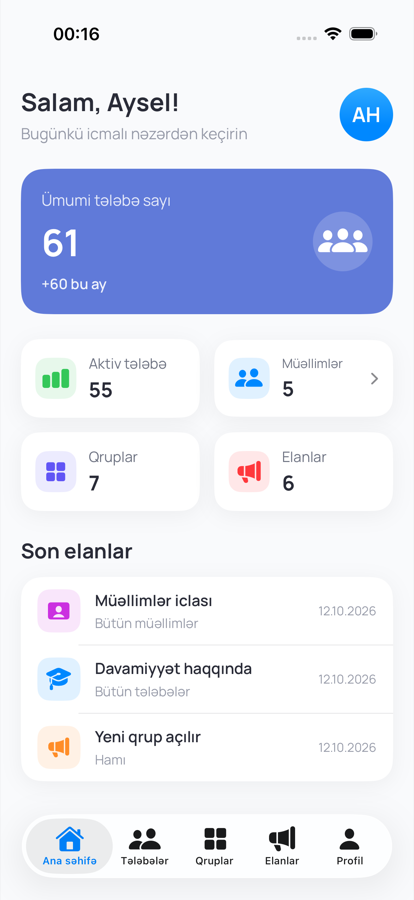
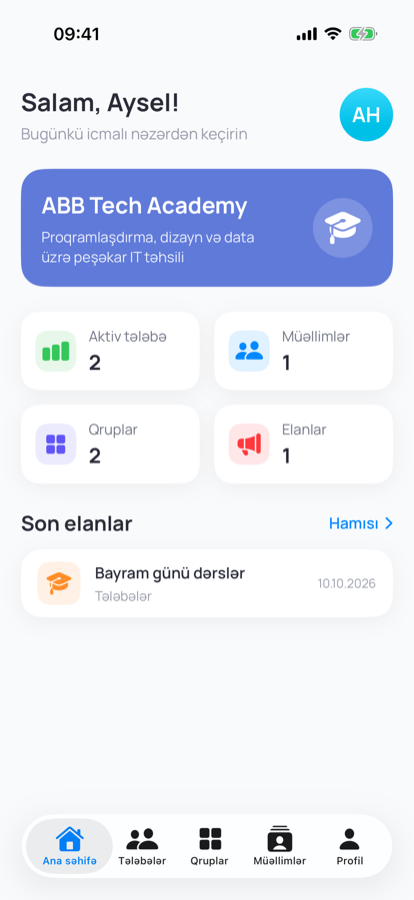
Update README and screenshots for the current employee screens
Add the project requirements to docs/REQUIREMENTS.md.

diff --git a/README.md b/README.md
@@ -12,10 +12,10 @@ The app works with a Laravel REST API (`https://campus.jeywastudio.com/api`).
 
 ### Employee
 
-| Dashboard | Students | Group | Excel import |
-| --- | --- | --- | --- |
-| <img src="docs/screenshots/6-employee-home-light.png" width="180"> | <img src="docs/screenshots/7-employee-students-light.png" width="180"> | <img src="docs/screenshots/8-employee-group-light.png" width="180"> | <img src="docs/screenshots/9-employee-import-light.png" width="180"> |
-| <img src="docs/screenshots/6-employee-home-dark.png" width="180"> | <img src="docs/screenshots/7-employee-students-dark.png" width="180"> | <img src="docs/screenshots/8-employee-group-dark.png" width="180"> | <img src="docs/screenshots/9-employee-import-dark.png" width="180"> |
+| Home | Students | Group | Excel import | Teachers | Announcements |
+| --- | --- | --- | --- | --- | --- |
+| <img src="docs/screenshots/6-employee-home-light.png" width="140"> | <img src="docs/screenshots/7-employee-students-light.png" width="140"> | <img src="docs/screenshots/8-employee-group-light.png" width="140"> | <img src="docs/screenshots/9-employee-import-light.png" width="140"> | <img src="docs/screenshots/16-employee-teachers-light.png" width="140"> | <img src="docs/screenshots/17-employee-announcements-light.png" width="140"> |
+| <img src="docs/screenshots/6-employee-home-dark.png" width="140"> | <img src="docs/screenshots/7-employee-students-dark.png" width="140"> | <img src="docs/screenshots/8-employee-group-dark.png" width="140"> | <img src="docs/screenshots/9-employee-import-dark.png" width="140"> | <img src="docs/screenshots/16-employee-teachers-dark.png" width="140"> | <img src="docs/screenshots/17-employee-announcements-dark.png" width="140"> |
 
 ### Student
 
@@ -42,12 +42,13 @@ The app works with a Laravel REST API (`https://campus.jeywastudio.com/api`).
 - **Schedule (student).** Upcoming or past lessons grouped by day, with time and room.
 - **Notifications (student).** Announcements for all students and for the student's own group.
 - **Profile.** Shows the user's details and signs out (with confirmation) through `/auth/logout`.
-- **Employee dashboard.** Shows the number of students, teachers, groups and announcements, plus the latest announcements.
-- **Students (employee).** Search by name, email or group, filter by All / Active / Inactive, open details, and activate or deactivate an account.
-- **Groups (employee).** Search groups, see study progress, create a group in a sheet (course, teacher, dates), and open a group to see its students.
-- **Excel import.** Pick an `.xlsx`, `.xls` or `.csv` file with `first_name, last_name, email` columns. It is uploaded as multipart form data, and the screen shows how many rows were added, how many were skipped, and the error for each skipped row.
-- **Teachers.** See the list with specialty and group count, and open a teacher to see their groups.
-- **Announcements.** See the list, and publish a new one to everyone, all students, all teachers or a single group (500 character limit).
+- **Employee home.** An academy card, the number of active students, teachers, groups and announcements, and the latest announcements with a link to all of them.
+- **Students (employee).** Search by name, email or group, filter by status (All / Active / Inactive) and by course, see each student's group and course, open details, and activate or deactivate an account.
+- **Groups (employee).** Search and filter by course, see study progress, open a group to see its students, and create or edit a group in a sheet: course, teacher, up to 2 mentors, start date and an end date picked in a calendar. Names are limited to 20 characters, and closing a form with unsaved changes asks for confirmation.
+- **Excel import.** Pick an `.xlsx`, `.xls` or `.csv` file (up to 5 MB) with `first_name, last_name, email` columns. It is uploaded as multipart form data. The import is all or nothing: the screen shows how many rows were added, or the error for each invalid row. Finished groups cannot be imported into.
+- **Teachers (employee).** Filter by position (teacher / mentor) and specialty, see the group count, open a teacher to see the groups they teach or mentor, and deactivate or reactivate their account.
+- **Announcements (employee).** Publish, edit and delete announcements with a title, a message (up to 500 characters), a priority (low / medium / high, each with its own colour), an audience (everyone, students, or teachers and mentors) and up to 3 links.
+- **Paging.** The students, groups, teachers and announcements lists load 20 items at a time as you scroll. Search waits for typing to pause, and responses that arrive out of order are ignored.
 - **Dark mode.** Every color comes from the asset catalog and has a dark variant.
 - **Loading, error and empty states.** Every screen uses one shared `AsyncContentView` driven by a `ViewState` enum, with retry on error and pull-to-refresh.
 
@@ -82,9 +83,9 @@ View  ──▶  ViewModel  ──▶  Service (protocol)  ──▶  NetworkSer
 ```
 abb_campus/
 ├── App/            # App entry point, AppDependencies, UI-testing stubs
-├── Core/           # Networking, Keychain, UserDefaults, auth state, helpers, extensions
+├── Core/           # Networking, Keychain, UserDefaults, auth state, paging and search helpers, extensions
 ├── Models/         # Codable API models
-├── Services/       # AuthService, PasswordResetService
+├── Services/       # Service protocols and their API implementations (auth, student, employee)
 ├── ViewModels/     # One view model per screen
 ├── Features/       # Screens grouped by feature, with their own components
 ├── Shared/         # Reusable UI components (PrimaryButton, IconCircleView, ProgressBar…)
@@ -96,8 +97,9 @@ abb_campusUITests/  # UI tests
 
 ## Tests
 
-- **Unit tests** (`abb_campusTests`, 72 tests) cover the auth view models (`LoginViewModel`, `ForgotPasswordViewModel`, `RoleSelectionViewModel`), `ProfileViewModel`, all student view models (home with next-lesson selection, grades, module grades, schedule grouping, attendance, notifications), all employee view models (dashboard, students list and detail, group detail, create group, Excel import, new announcement), `AuthenticationState`, `ValidationHelper` and request building for `EmployeeEndpoint`. They check both success and error cases. Every service is replaced by a mock through its protocol, so the tests never call the real API.
-- **UI tests** (`abb_campusUITests`) cover the login flow (role selection, the validation error, the wrong password error, a successful login → home → logout, and opening the forgot password sheet) the student flow (home → attendance, grades → module details) and the employee flow (dashboard → students → Inactive filter → student details, and group → import screen). The app starts with `-ui-testing`, so the tests use stub services.
+- **Unit tests** (`abb_campusTests`, 155 tests) cover the auth view models (`LoginViewModel`, `ForgotPasswordViewModel`, `RoleSelectionViewModel`), `ProfileViewModel`, all student view models (home with next-lesson selection, grades, module grades, schedule grouping, attendance, notifications), all employee view models (dashboard, students, teachers and groups lists and details, create and edit group, Excel import, create, edit and delete announcements), `AuthenticationState`, `ValidationHelper`, paging and request building for `EmployeeEndpoint`. They check both success and error cases. Every service is replaced by a mock through its protocol, so the tests never call the real API.
+- **Concurrency and network tests** check that a slow, older response never overwrites a newer one, that a cancelled refresh keeps the data on screen, and that server errors, timeouts, offline mode and invalid JSON show a clear message. The network tests use a stubbed `URLProtocol` instead of the real server.
+- **UI tests** (`abb_campusUITests`) cover the login flow (role selection, the validation error, the wrong password error, a successful login → home → logout, and opening the forgot password sheet) the student flow (home → attendance, grades → module details) and the employee flow (dashboard → students → Inactive filter → student details, and group → import screen), plus two navigation stress tests (20 push/back cycles, rapid tab switching and returning from the background). The app starts with `-ui-testing`, so the tests use stub services.
 
 Run all tests from the terminal:
 
@@ -121,16 +123,16 @@ Steps:
 2. Open `abb_campus.xcodeproj`.
 3. Select the `abb_campus` scheme and a simulator, then press **⌘R**.
 
-Demo accounts (password `Password123!` for all of them):
+Demo accounts:
 
-| Role | Email |
-| --- | --- |
-| Student | `student@abb.local` |
-| Employee | `employee@abb.local` |
-| Teacher | `teacher@abb.local` |
+| Role | Email | Password |
+| --- | --- | --- |
+| Student | `student@abb.local` | `Password123!` |
+| Employee | `employee@abb.local` | `abc12345` |
+| Teacher | `teacher@abb.local` | `Password123!` |
 
 To try the Excel import, drag the files from [`docs/demo`](docs/demo) onto the simulator and save them in Files. Then open a group, choose **Excel-dən tələbə idxal et** and pick a file. The import is all or nothing: [`telebeler.xlsx`](docs/demo/telebeler.xlsx) is valid and adds 6 students (including `student@abb.local`), while [`telebeler_sehvli.xlsx`](docs/demo/telebeler_sehvli.xlsx) has 3 invalid rows, so nothing is imported and the errors are listed.
 
 ## Backend
 
-The app talks to a Laravel 12 REST API. For the employee screens these endpoints were added: `GET /employee/dashboard`, `GET /students`, `GET /students/{id}`, `GET /teachers`, `GET /teachers/{id}` and `PATCH /users/{id}/status`, plus search on `GET /groups`. While building the student screens, three existing backend bugs were fixed: attendance was always 0%, ungraded modules lowered the average, and the group students list returned a 500 error. Everything is covered by PHPUnit feature tests (28 tests).
+The app talks to a Laravel 12 REST API. For the employee screens these endpoints were added: `GET /employee/dashboard`, `GET /students`, `GET /students/{id}`, `GET /teachers`, `GET /teachers/{id}`, `PATCH /users/{id}/status`, creating and editing groups, Excel import, and creating, editing and deleting announcements. Lists support search, filters and paging. While building the student screens, three existing backend bugs were fixed: attendance was always 0%, ungraded modules lowered the average, and the group students list returned a 500 error. Everything is covered by PHPUnit feature tests (84 tests).

diff --git a/docs/REQUIREMENTS.md b/docs/REQUIREMENTS.md
@@ -1,0 +1,75 @@
+# Final Layihə — Tələblər və Qiymətləndirmə
+
+## ⚠ Məcburi şərtlər
+
+Bu şərtlərdən biri ödənməsə, layihə qiymətləndirməyə qəbul olunmur:
+
+- Layihə SwiftUI ilə yazılır (UIKit yalnız SwiftUI-da olmayan komponent lazım olanda `UIViewRepresentable` kimi istifadə oluna bilər).
+- Arxitektura MVVM-dir: View-da business logic, networking və ya data emalı olmur.
+- Ən azı bir feature-un ViewModelləri üçün unit testlər yazılsın və həmin feature-un View-su üçün UI test yazılsın.
+- Kod GitHub-dadır və README var (öz reponuzda, ABB Organization daxilində yox). Bütün app 1 commitlə deyil, mənalı commitlərlə yazılıb.
+- GitHub Actions workflow yaradın — hər push və pull request-də testlər avtomatik run olunsun. Actions tab-ında son run yaşıl ✅ olmalıdır.
+
+## 👨💻 1. Təlimçi qiymətləndirməsi — 60 bal
+
+Bu hissə Demo Day-dən əvvəl aparılır.
+
+### 1⃣ Arxitektura və kod keyfiyyəti — 20
+
+- MVVM düzgün tətbiq olunub: View → ViewModel → Service/Repository
+- Naming: aydın və ardıcıl adlar
+- File structure: məntiqi qovluqlar
+- Komponentlərə bölünmə: böyük View-lar kiçik, təkrar istifadə olunan View-lara bölünüb
+- Code reusability: eyni kod copy-paste olunmayıb, ortaq hissələr extension, komponent və ya helper-ə çıxarılıb
+- OOP / SOLID: protocol-lar, dependency injection, hər class-ın bir məsuliyyəti var
+
+### 2⃣ Funksionallıq — 12
+
+- App işləyir, crash yoxdur
+- Feature-lar tamamlanıb
+- Loading, error və empty state-lər idarə olunub
+
+### 3⃣ iOS konseptlərinin istifadəsi — 10
+
+- Networking (async/await)
+- State management (`@State`, `@Binding`, `@Observable` / `ObservableObject`)
+- Navigation (`NavigationStack`, sheet, `TabView`)
+- Persistence (SwiftData, UserDefaults və s.)
+
+### 4⃣ Unit test — 8
+
+- Ən azı 1 ViewModel test olunub (minimum 4–5 test)
+- Həm uğurlu (success), həm xəta (error) halı yoxlanılıb
+- Service protocol ilə mock olunub, testlər real API-yə müraciət etmir
+- Testlər keçir (yaşıl ✅)
+
+### 5⃣ UI implementasiyası — 5
+
+- SwiftUI layout düzgün qurulub (stack-lar, spacing, padding)
+- Müxtəlif ekran ölçülərində düzgün görünür
+- Dark mode da var
+
+### 6⃣ Git və layihə strukturu — 5
+
+- Mənalı commit-lər
+- Commit-lər zamana yayılıb, bütün kod bir commit-də deyil
+- README: app nədir, screenshot-lar, istifadə olunan texnologiyalar, necə run etmək
+
+**Cəmi: 60**
+
+## 🏆 2. Demo Day — Münsiflər — 40 bal
+
+### 1⃣ Texniki mürəkkəblik — 15
+
+Networking, state management, navigation, persistence və app-in ümumi texniki səviyyəsi.
+
+### 2⃣ İcra keyfiyyəti və UI/UX — 15
+
+App stabil işləyir, navigation problemi yoxdur, UI səliqəlidir, istifadəsi rahatdır.
+
+### 3⃣ Təqdimat — 10
+
+Strukturlaşdırılmış təqdimat, vaxtdan düzgün istifadə, demo-nun rahat göstərilməsi, qərarların izahı.
+Burada tələbədən bir sual da gözlənilir: "Niyə bu arxitekturanı seçdin, nəyi test etdin?"
+
+**Cəmi: 40**
